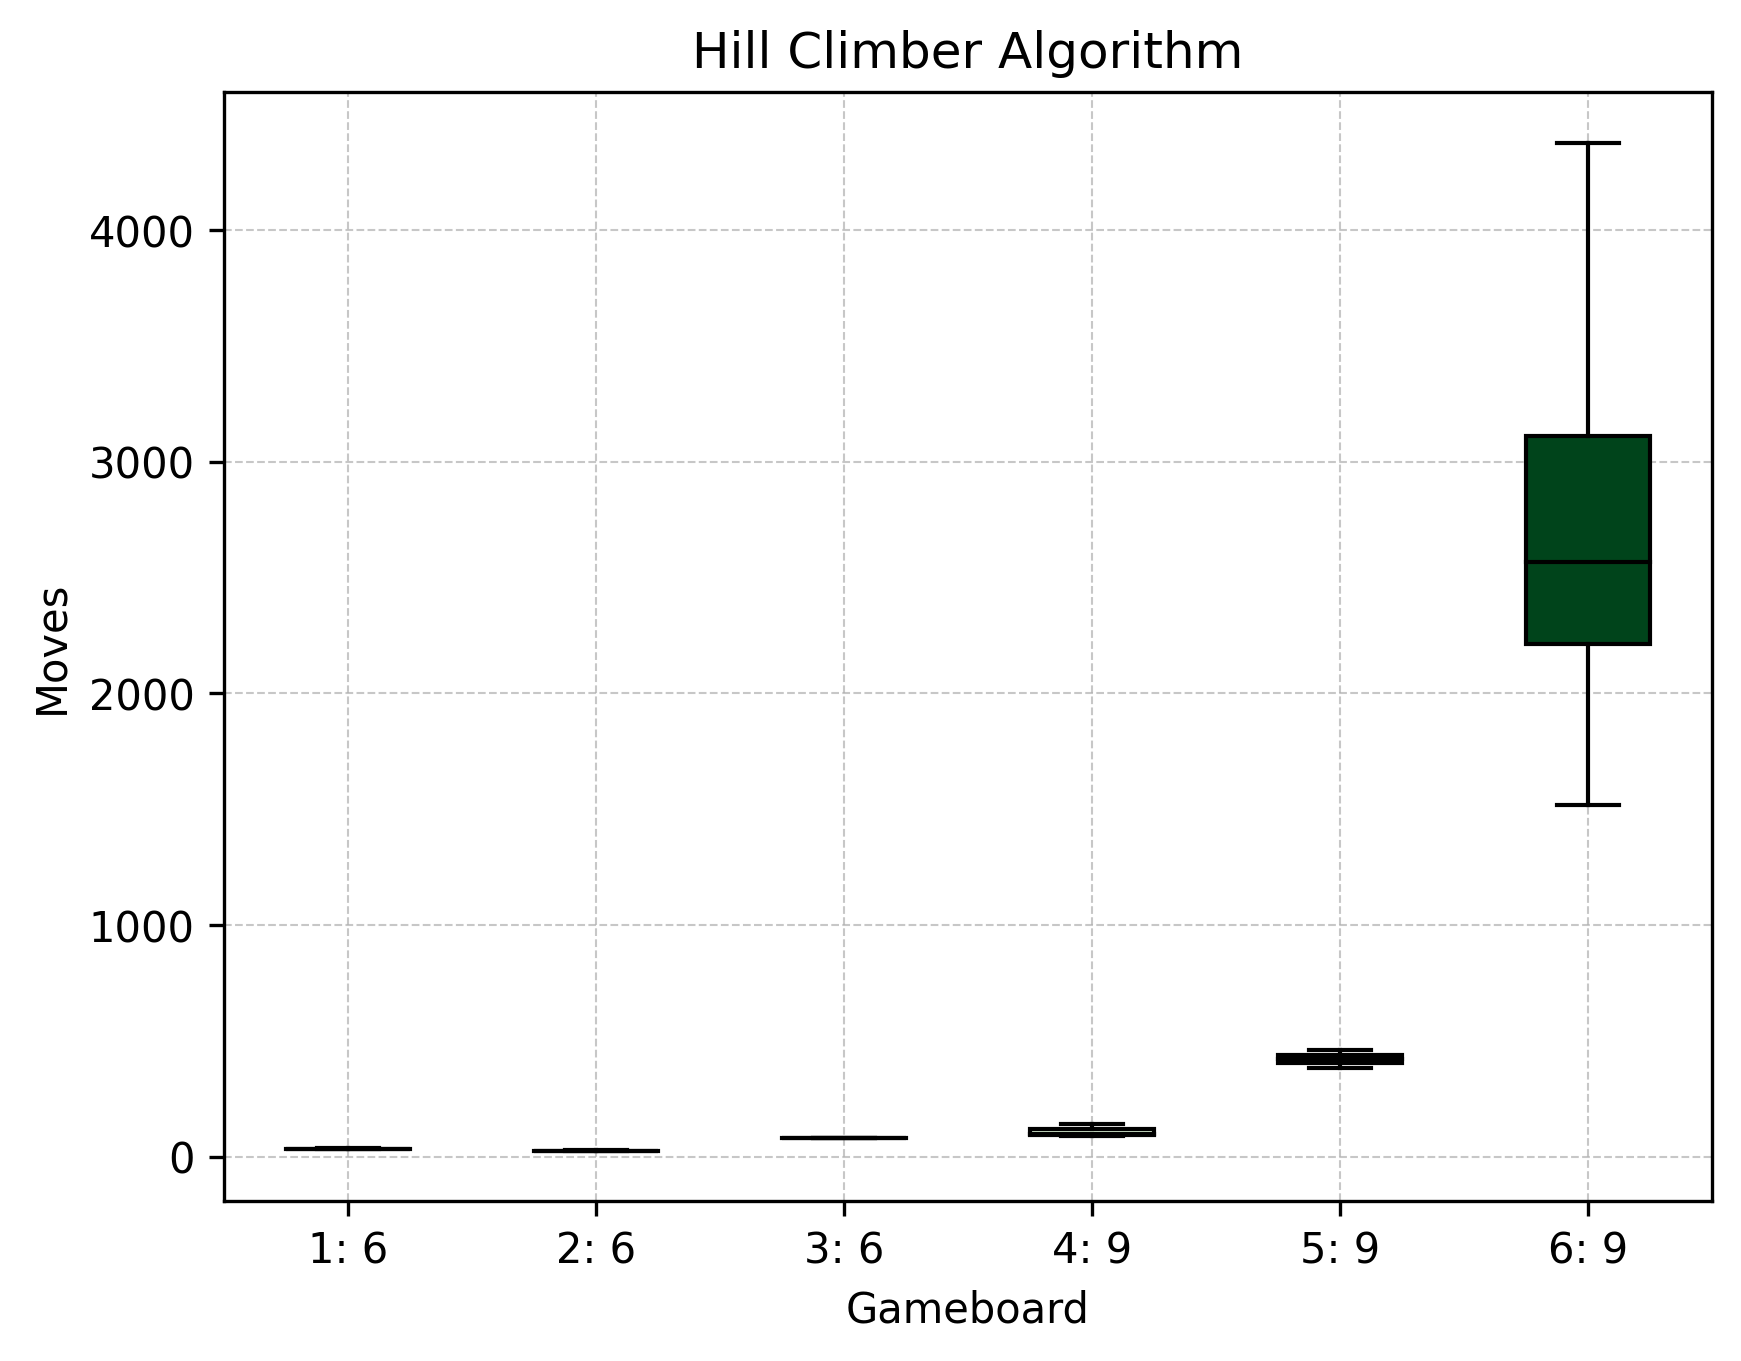
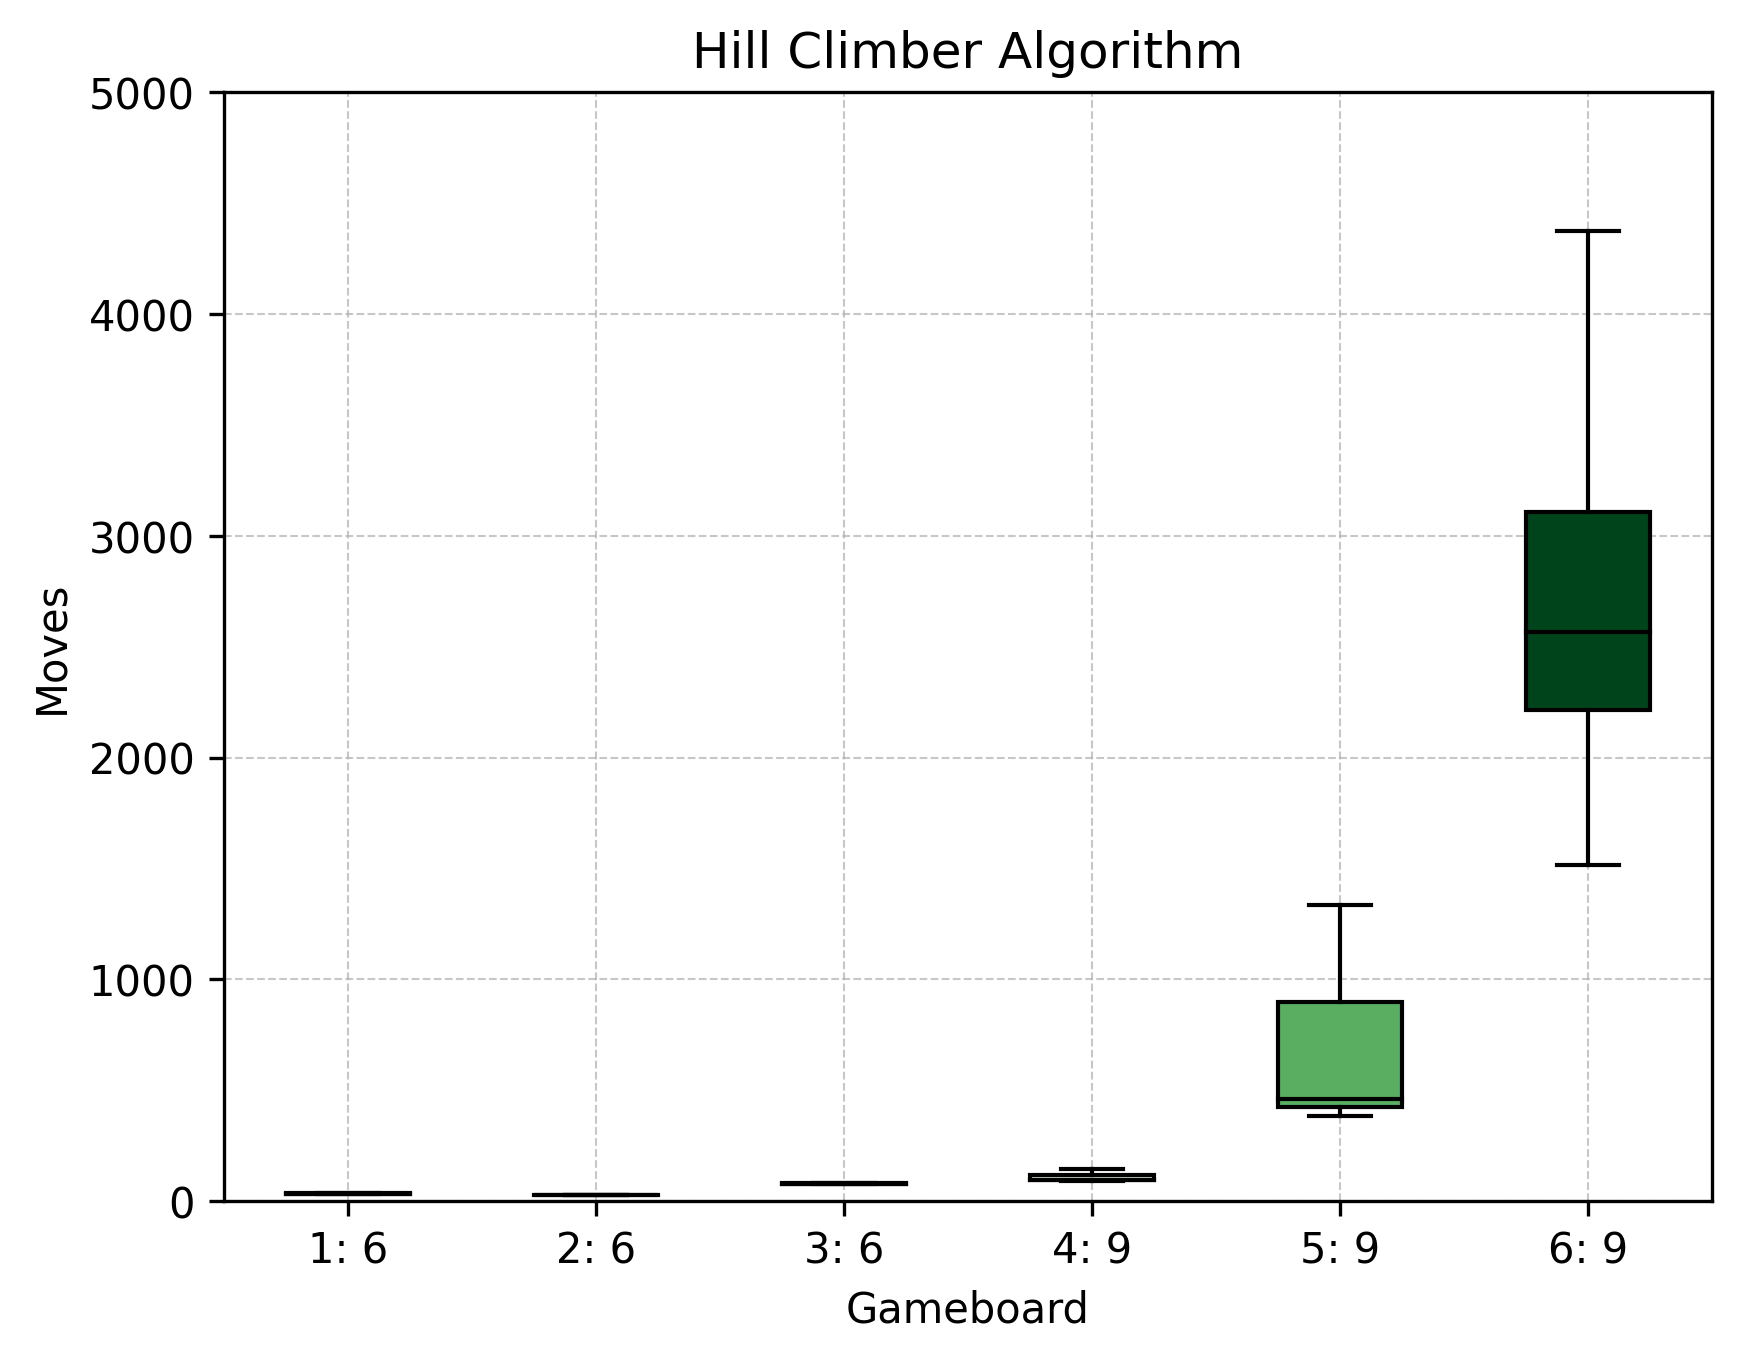
results.cvs en Boxplot aangepast met nieuwe data
Boxplot van alle hillclimber opnieuw gemaakt en van 9x9

diff --git a/data processing/statistics.py b/data processing/statistics.py
@@ -188,7 +188,7 @@ def plot_boxplot_hillclimber_6_9(data: list[list[int]]) -> None:
     medianprops = {'color': 'black', 'linewidth': 1}
     flierprops = {'marker': 'o', 'markeredgecolor': 'black', 'markerfacecolor': 'black'}
 
-    positions = [1, 2, 3]
+    positions = [1, 2, 3, 4, 5, 6]
 
     # Create the boxplots and get the box artists
     boxplot = plt.boxplot(data, positions=positions, patch_artist=True,
@@ -203,20 +203,20 @@ def plot_boxplot_hillclimber_6_9(data: list[list[int]]) -> None:
 
     plt.xlabel("Gameboard")
     plt.ylabel("Moves")
-    plt.title("Hill Climber Algorithm 9x9")
+    plt.title("Hill Climber Algorithm")
 
     # Customize x-axis ticks
     x_ticks = positions
-    # x_tick_labels = ["1: 6", "2: 6", "3: 6", "4: 9", "5: 9", "6: 9", "7: 12"]
-    x_tick_labels_6 = ["1: 6", "2: 6", "3: 6"]
-    x_tick_labels_9 = ["4: 9", "5: 9", "6: 9"]
+    x_tick_labels = ["1: 6", "2: 6", "3: 6", "4: 9", "5: 9", "6: 9"]
+    # x_tick_labels_6 = ["1: 6", "2: 6", "3: 6"]
+    # x_tick_labels_9 = ["4: 9", "5: 9", "6: 9"]
     plt.ylim(0,5000)
 
     # x_tick_labels = ["6x6_1", "6x6_2","9x9_4"]
-    plt.xticks(x_ticks, x_tick_labels_9)
+    plt.xticks(x_ticks, x_tick_labels)
 
     plt.grid(True, linestyle='--', linewidth=0.5, alpha=0.7)
-    plt.savefig(f"data_images/boxplot_hillclimber_9", dpi=300, bbox_inches='tight')
+    plt.savefig(f"data_images/boxplot_hillclimber", dpi=300, bbox_inches='tight')
 
 
 def plot_boxplot_hill_rand(data_random: list[int], data_hillclimber: list[int], title: str) -> None:
@@ -264,7 +264,7 @@ if __name__=="__main__":
     time_random, number_of_moves_random, number_of_states_random = load_data_multiple(file_names_random)
     # time_hillclimber, number_of_moves_hillclimber, number_of_states_hillclimber = load_data_multiple(file_names_hillclimber)
     # time_hillclimber, number_of_moves_hillclimber, number_of_states_hillclimber = load_data_multiple(file_names_hillclimber_6)
-    time_hillclimber, number_of_moves_hillclimber, number_of_states_hillclimber = load_data_multiple(file_names_hillclimber_9)
+    time_hillclimber, number_of_moves_hillclimber, number_of_states_hillclimber = load_data_multiple(file_names_hillclimber)
 
     # print(f"time random: {time_random}")
     # print(f"number_of_moves: {number_of_moves_random}")
@@ -289,8 +289,14 @@ if __name__=="__main__":
     # print_summary_statistics(number_of_moves_hillclimber[0], "6x6_1_hillclimber")
     # Hillclimber 6x6_2 moves 
     # print_summary_statistics(number_of_moves_hillclimber[1], "6x6_2_hillclimber")
+    # Hillclimber 6x6_3 moves 
+    # print_summary_statistics(number_of_moves_hillclimber[2], "6x6_3_hillclimber")
     # Hillclimber 9x9_4 moves 
-    # print_summary_statistics(number_of_moves_hillclimber[2], "9x9_4_hillclimber")
+    # print_summary_statistics(number_of_moves_hillclimber[3], "9x9_4_hillclimber")
+    # Hillclimber 9x9_5 moves 
+    # print_summary_statistics(number_of_moves_hillclimber[4], "9x9_5_hillclimber")
+    # Hillclimber 9x9_6 moves 
+    # print_summary_statistics(number_of_moves_hillclimber[5], "9x9_6_hillclimber")
 
 
     # Random histogrammen 
@@ -308,7 +314,7 @@ if __name__=="__main__":
 
     # Hillclimber boxplot
     # plot_boxplot_hillclimber(number_of_moves_hillclimber)
-    plot_boxplot_hillclimber_6_9(number_of_moves_hillclimber)
+    # plot_boxplot_hillclimber_6_9(number_of_moves_hillclimber)
 
 
     # Random en Hillclimber boxplot
